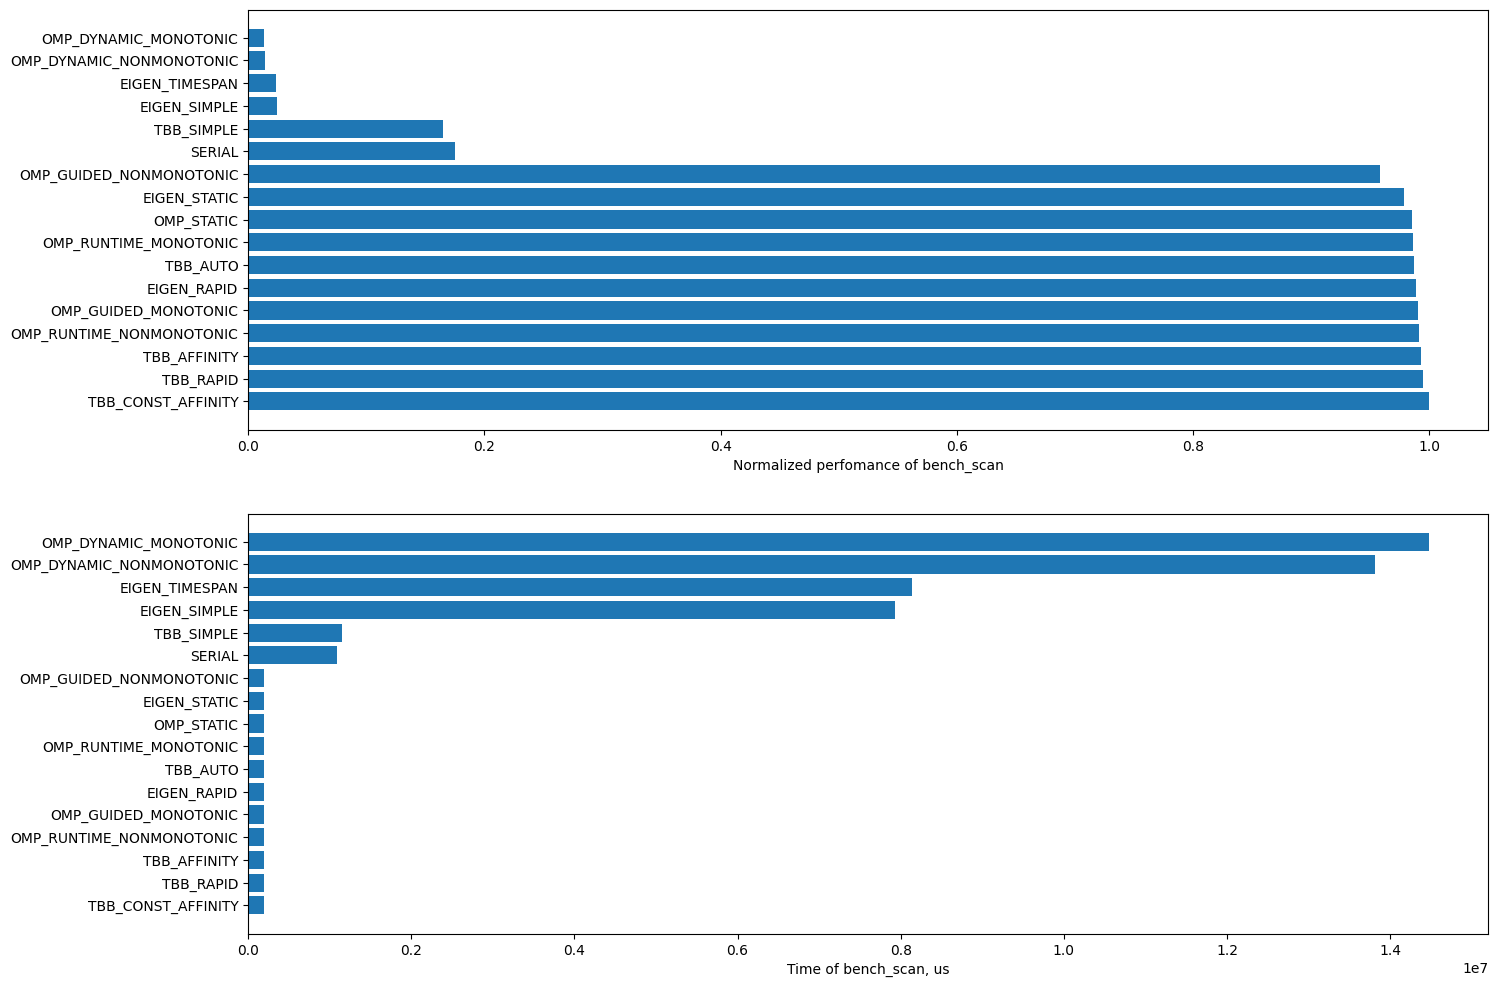
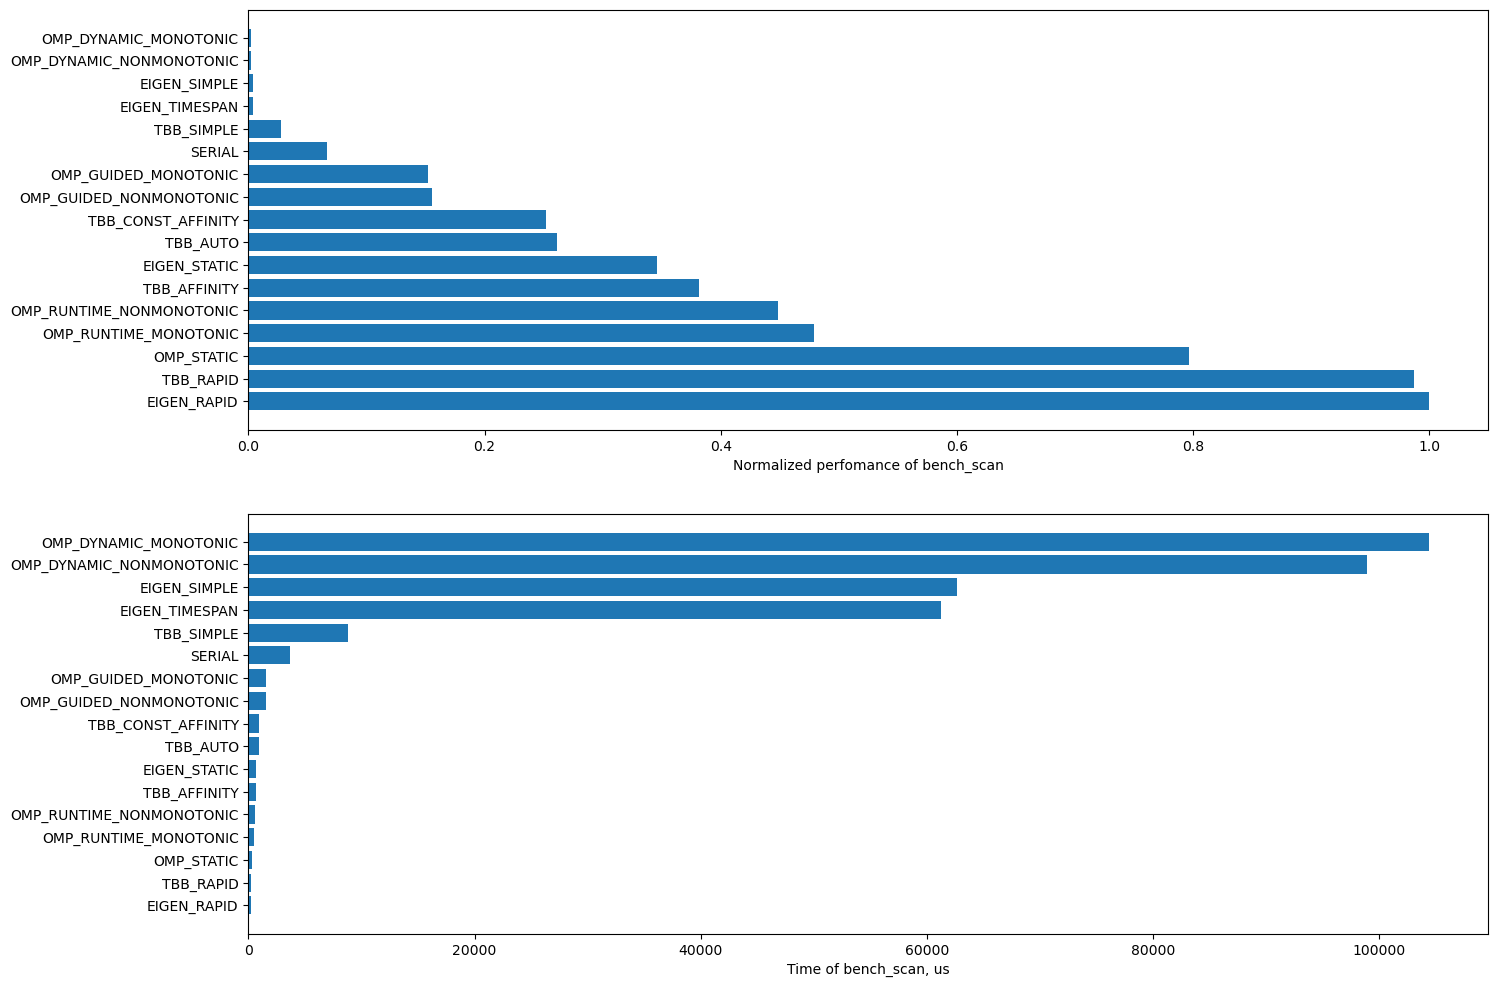
less scan iterations

diff --git a/benchmarks/bench_scan.cpp b/benchmarks/bench_scan.cpp
@@ -4,24 +4,20 @@
 
 #include "../include/parallel_for.h"
 
-static constexpr size_t MIN_SIZE = 1 << 10;
-static constexpr size_t MAX_SIZE = 1 << 27;
+static constexpr size_t SIZE_POW = 20;
 
 static void BM_ScanBench(benchmark::State &state) {
   InitParallel(GetNumThreads());
-  size_t size = state.range(0);
-  size_t size_pow = Scan::GetBlockPow(size);
   // allocate data and result once, reuse it for all iterations
-  auto data = SPMV::GenVector<double>(size);
+  auto data = SPMV::GenVector<double>(1 << SIZE_POW);
   for (auto _ : state) {
-    Scan::Scan(size_pow, data);
+    Scan::Scan(SIZE_POW, data);
   }
 }
 
 BENCHMARK(BM_ScanBench)
     ->Name("Scan_" + GetParallelMode())
     ->UseRealTime()
-    ->Unit(benchmark::kMicrosecond)
-    ->Range(MIN_SIZE, MAX_SIZE);
+    ->Unit(benchmark::kMicrosecond);
 
 BENCHMARK_MAIN();
